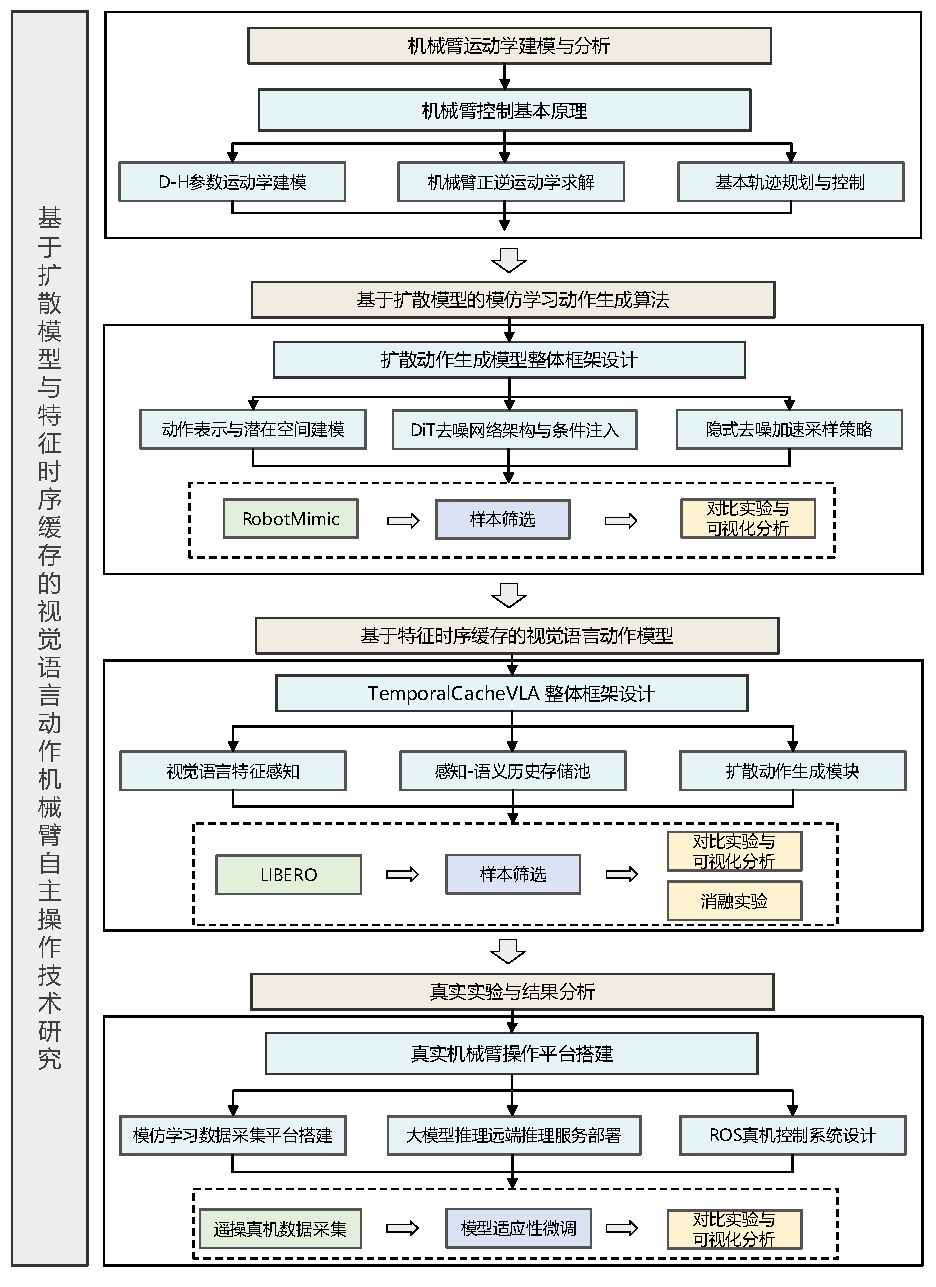
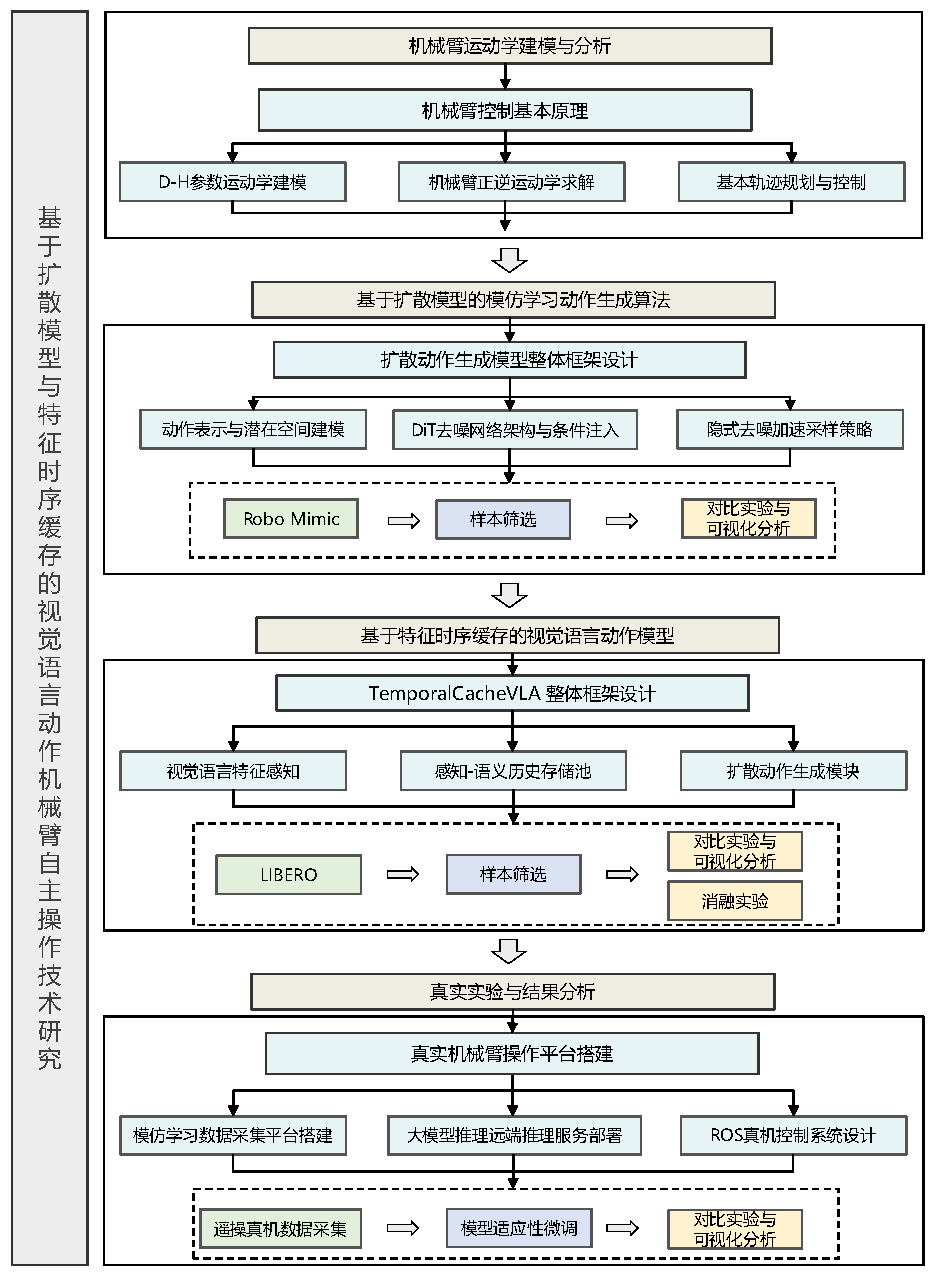
fix: 更正bib内容以及修改了一些其他文字内容

diff --git a/chapters/chapter1.tex b/chapters/chapter1.tex
@@ -134,11 +134,11 @@
 
 （1）机械臂运动学建模与分析。
 
-基于Denavit-Hartenberg参数法对本文所采用的机械臂进行运动学建模，推导其正向与逆向运动学方程，建立机器人各关节角度与末端执行器在笛卡尔空间中位姿的精确映射关系。该模型不仅为后续动作生成算法提供必要的物理约束与理论基础，确保生成轨迹的可行性，同时也为遥操作数据采集系统的设计提供支持。
+基于Denavit-Hartenberg参数法对本文所采用的机械臂进行运动学建模，推导其正向与逆向运动学方程，建立机器人各关节角度与末端执行器在笛卡尔空间中位姿的精确映射关系。该模型不仅为后续动作生成算法提供必要的物理约束与理论基础，确保进行轨迹规划和生成的可行性，同时也为遥操作数据采集系统的设计提供支持。
 
 （2）基于扩散模型的模仿学习动作生成算法研究。
 
-针对机械臂操作任务中动作分布呈多峰性、传统行为克隆方法难以对其进行准确建模的问题，本文研究一种基于扩散模型的模仿学习动作生成算法，以实现对专家演示中多模态操作行为的精确学习与复现。该算法以迭代DiT(Diffusion Transformer)为核心，将机械臂当前状态特征与环境感知特征联合编码，通过多步去噪过程从噪声中逐步恢复出符合专家分布的连续动作序列，从而使模型能够在同一输入条件下覆盖多种可行的操作轨迹，避免行为克隆在多模态场景下的均值化退化问题。同时，为使该算法能够在机械臂实时控制的时延约束下正常运行，本文对加速采样策略进行研究，以在保证生成动作质量的前提下大幅压缩推理所需的去噪步数。
+在机械臂操作中，同一任务往往存在多种合理动作路径，导致动作分布呈明显的多峰性，而传统行为克隆方法难以有效拟合这种分布，本文研究一种基于扩散模型的模仿学习动作生成算法，以实现对专家演示中多模态操作行为的精确学习与复现。该算法以迭代DiT(Diffusion Transformer)为核心，将机械臂当前状态特征与环境感知特征联合编码，通过多步去噪过程从噪声中逐步恢复出符合专家分布的连续动作序列，从而使模型能够在同一输入条件下覆盖多种可行的操作轨迹，避免行为克隆在多模态场景下的均值化退化问题。同时，为使该算法能够在机械臂实时控制的时延约束下正常运行，本文对加速采样策略进行研究，以在保证生成动作质量的前提下大幅压缩推理所需的去噪步数。
 
 （3）面向长时序任务的时序缓存视觉语言动作模型研究。
 
@@ -155,13 +155,13 @@
 \begin{figure}[htbp]
   \centering
   \includegraphics[width=0.9\linewidth]{figures/content/chapter_structure}
-  \caption{论文章节结构示意图}
+  \caption{本文研究逻辑结构示意图}
   \label{fig:chapter_structure}
 \end{figure}
 
 第一章是绪论。该章首先阐述了机器人自主操作技术的研究背景、意义与面临的挑战。随后，对模仿学习、视觉语言模型以及扩散模型在机器人操作领域的研究现状与发展趋势进行了系统性的梳理与分析。最后，基于当前研究的不足，引出了本文的研究动机，明确了核心研究内容，并概述了全文的组织架构。
 
-第二章是相关理论与技术基础。本章为后续算法的设计与实现提供必要的理论支撑，内容涵盖了机械臂运动学与控制基本原理、机器人模仿学习的主流范式、视觉语言模型的结构原理以及扩散概率模型的核心思想，并重点对D-H参数运动学建模、基本轨迹规划与控制方法进行了介绍。
+第二章是相关理论与技术基础。本章为后续算法的设计与实现提供必要的理论支撑，内容涵盖了机械臂运动学与控制基本原理、机器人模仿学习的主流实现、视觉语言模型的结构原理以及扩散概率模型的核心思想，并重点对D-H参数运动学建模、基本轨迹规划与控制方法进行了介绍。
 
 第三章是基于扩散模型的模仿学习动作生成算法研究。本章聚焦于解决模仿学习中的多模态动作分布拟合难题，详细阐述了以DiT为核心的扩散动作生成模型的整体框架设计，内容覆盖了动作表征与潜在空间建模、去噪网络结构与条件注入方式，以及为满足实时性要求而采用的隐式去噪加速采样策略。为对算法的可行性与有效性进行初步评估，本章将利用RoboMimic\cite{mandlekar2021robomimic}数据集开展对比实验与可视化分析。
 
